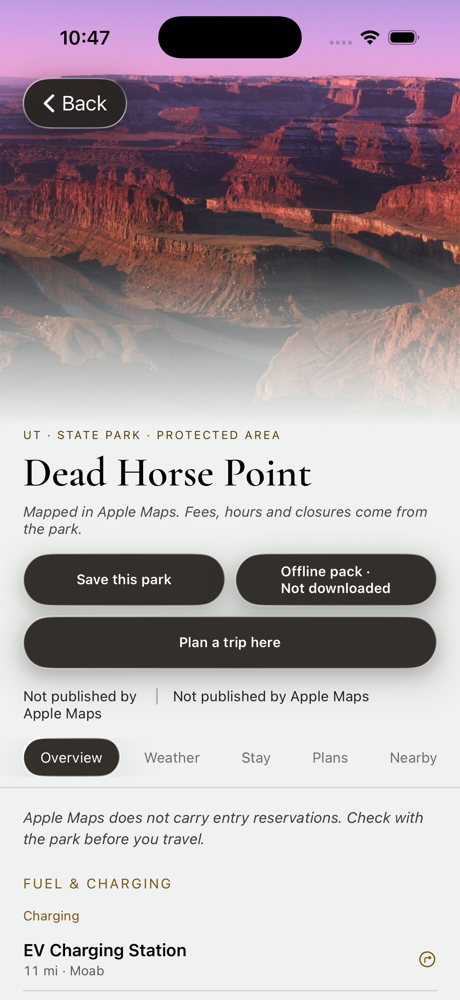
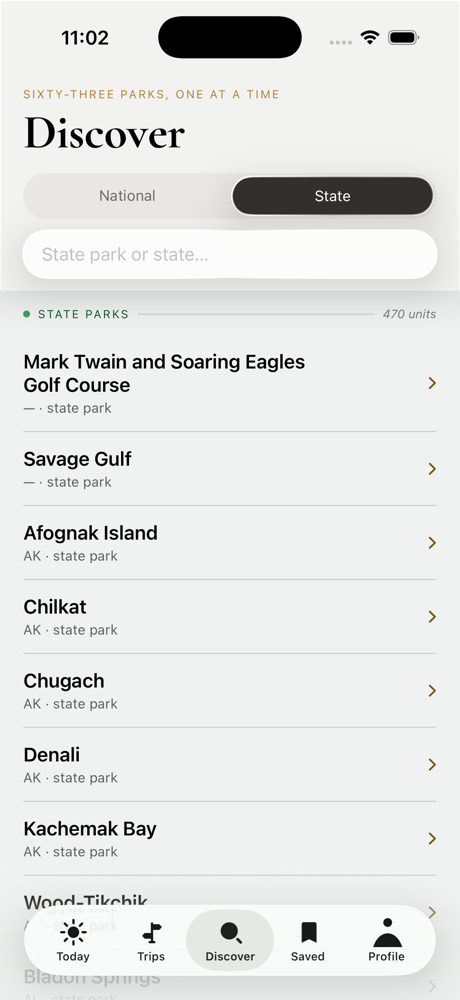
fix: the shipped state parks open (v2.19.1)
The Plan a trip button could not be reached from D4.1, which is where it
was asked for. Three thousand state-park rows ship with the app and
tapping one produced a toast — "a name and a location is all any
nationwide source publishes" — and went nowhere. That was true of the row
and untrue of the park: the row carries coordinates, and coordinates are
all the live sources need.

They open now. A shipped row becomes a park with a photograph, today's
weather, the chargers and shops around it, and the trip button, from
sources that answer for anywhere. Its code is stable, so a state park can
be saved and reopened after a relaunch like any other.

The note under the list stopped describing what the app holds and now says
what opening one gives you.

diff --git a/Waypost/Models/NationalParks.swift b/Waypost/Models/NationalParks.swift
@@ -97,3 +97,57 @@ extension CuratedPark {
         )
     }
 }
+
+
+extension CuratedPark {
+    /// One of the three thousand state parks that ship with the app.
+    ///
+    /// These rows carried a name, a state and coordinates and opened nothing — tapping
+    /// one produced a toast explaining that a name and a location is all anybody
+    /// publishes. That was true of the row and untrue of the park: with coordinates it
+    /// gets a photograph, today's weather, the chargers and shops around it, and a way
+    /// into the trip builder, all from sources that answer for anywhere.
+    init(stateRow row: StateParkRow) {
+        let short = CuratedPark.shortName(row.n)
+        self.init(
+            code: "sp-" + row.n.lowercased()
+                .replacingOccurrences(of: "[^a-z0-9]+", with: "-", options: .regularExpression)
+                .trimmingCharacters(in: CharacterSet(charactersIn: "-")),
+            name: short,
+            full: row.n,
+            state: row.s,
+            lat: row.lat,
+            lon: row.lon,
+            tag: "Fees, hours and closures come from the park.",
+            gw: "",
+            region: CuratedPark.region(for: row.n),
+            crowd: ParkDesignation.inName(row.n) ?? "State Park",
+            fee: "Not published",
+            hours: "Not published",
+            res: false,
+            resNote: "Entry reservations are not listed here. Check with the park before you travel.",
+            c: CuratedPark.palette(for: row.n),
+            pack: "Not downloaded",
+            wx: .unpublished,
+            gates: [],
+            parking: "",
+            airports: [],
+            camping: [],
+            lodging: [],
+            fuel: CuratedFuel(gas: [], fast: [], slow: []),
+            alerts: [],
+            days: [],
+            stamps: [],
+            source: .onDevice,
+            designation: ParkDesignation.inName(row.n) ?? "State Park"
+        )
+    }
+}
+
+extension Datasets {
+    /// A shipped state park by the code the app gives it.
+    func statePark(code: String) -> CuratedPark? {
+        guard code.hasPrefix("sp-") else { return nil }
+        return stateParks.lazy.map(CuratedPark.init(stateRow:)).first { $0.code == code }
+    }
+}

diff --git a/Waypost/Features/Discover/DiscoverScreen.swift b/Waypost/Features/Discover/DiscoverScreen.swift
@@ -338,7 +338,7 @@ struct StateParkList: View {
 
             ForEach(rows, id: \.n) { row in
                 Button {
-                    app.show("\(row.n) — a name and a location is all any nationwide source publishes")
+                    app.openPark(CuratedPark(stateRow: row).code)
                 } label: {
                     DividedRow(vertical: 13) {
                         HStack(spacing: 12) {
@@ -402,7 +402,7 @@ struct StateParkList: View {
                     .font(WP.bodyItalic(11.5)).opacity(0.55).padding(.top, 18)
             }
 
-            Text("ParkHop holds a name and a location for every state-park unit, and nothing else. Hours, fees and campsites come from the park's own site — so those are a link, not a number.")
+            Text("Opening one gives you its photograph, today's weather, and what is around it. Fees, hours and campsites come from the park itself.")
                 .font(WP.body(11.5)).lineSpacing(3).opacity(0.6)
                 .fixedSize(horizontal: false, vertical: true)
                 .padding(.top, 16)

diff --git a/Waypost/State/AppState.swift b/Waypost/State/AppState.swift
@@ -452,7 +452,8 @@ final class AppState {
         if let found = directory.hits.first(where: { $0.park.code == code })?.park { return found }
         // A park saved from the on-device list still opens after a relaunch, when the
         // search that found it is long gone.
-        return NationalParks.park(code: code).map(CuratedPark.init(bundled:))
+        if let national = NationalParks.park(code: code) { return CuratedPark(bundled: national) }
+        return Datasets.shared.statePark(code: code)
     }
 
     func openPark(_ code: String, segment: ParkSegment = .overview) {
